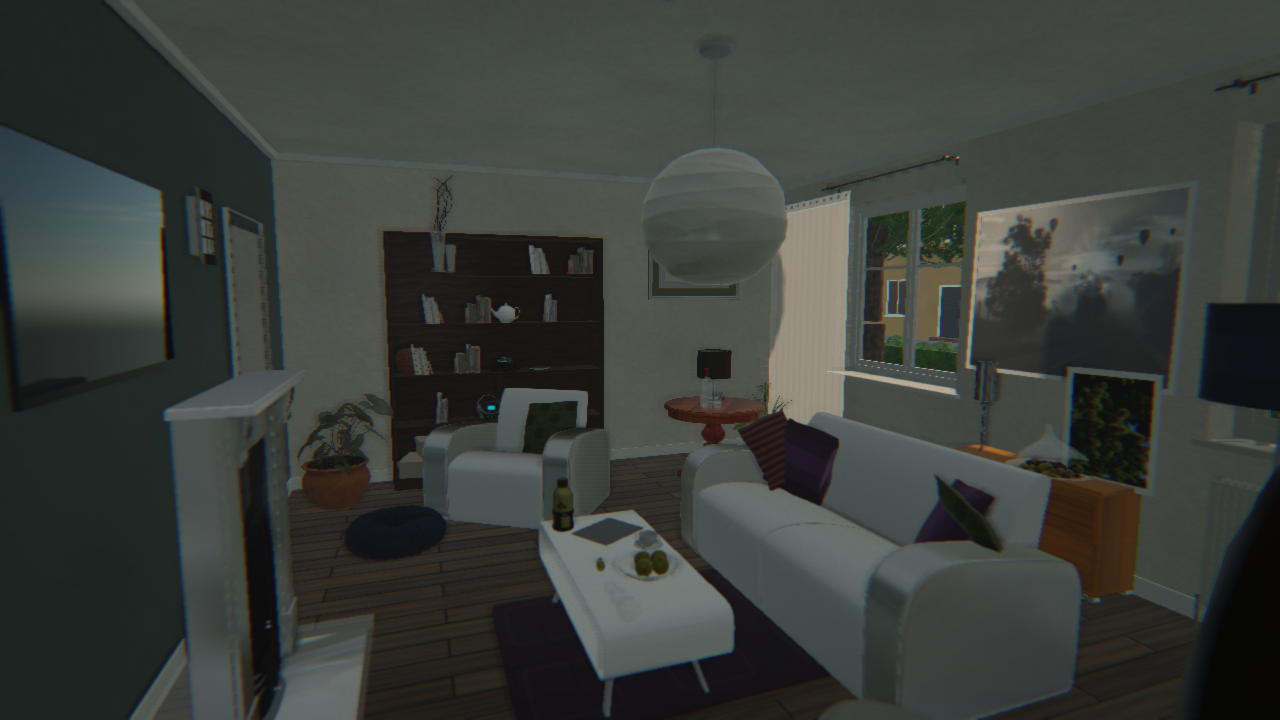
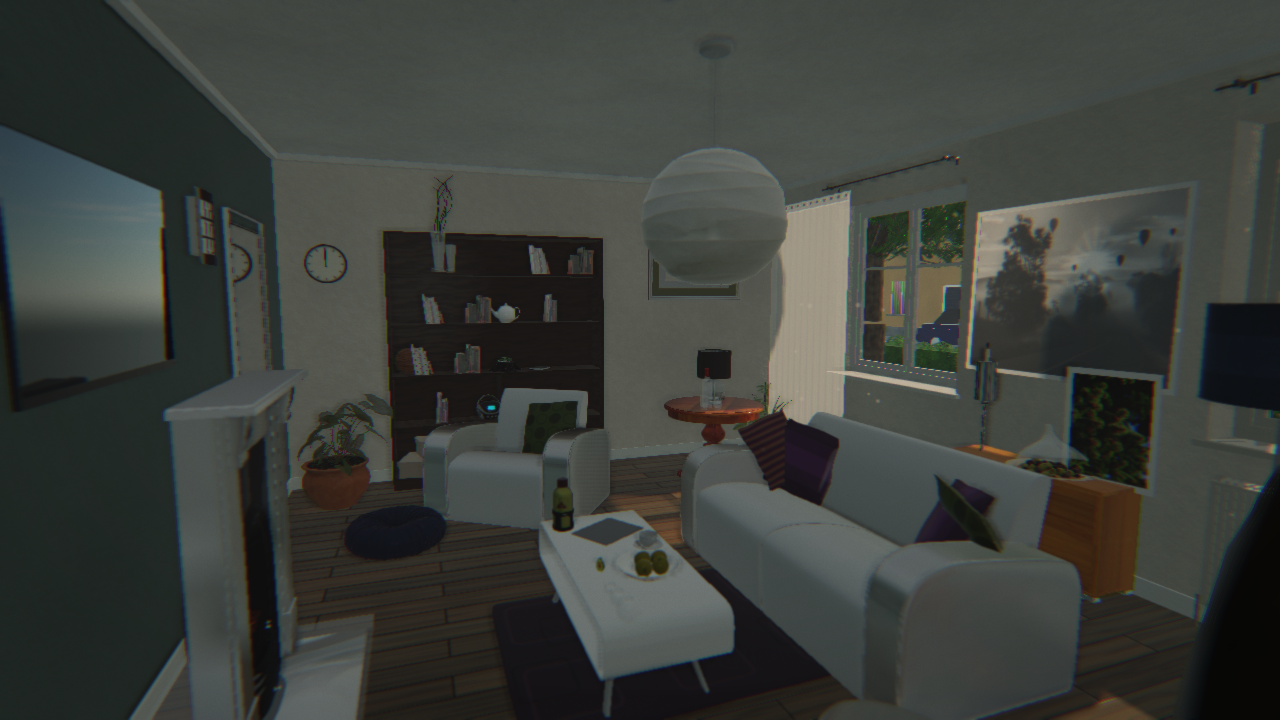
Motes only in real sunbeams; the hero image retaken

diff --git a/src/RoomApplication.cpp b/src/RoomApplication.cpp
@@ -124,7 +124,7 @@ bool RoomApplication::configure(int argc, char** argv)
                 "  --volumetric D            the pipeline's volumetric fog density (experimental, default 0)\n"
                 "  --sunbeams D[,G,N]        sunlight scattered by the room's air: density per metre (default 0.12, 0 off),\n"
                 "                            anisotropy (default 0.75) and march steps (default 24)\n"
-                "  --motes N[,PX]            dust motes drifting in the beams (default 400, 0 off) and their size in pixels at 540p (default 2.5)\n"
+                "  --motes N[,PX]            dust motes drifting in the beams (default 400, 0 off) and their size in pixels at 540p (default 2)\n"
                 "  --no-reflections          planar reflections off (mirror, television screen)\n"
                 "  --no-specular-classes     CNA's 8-bit prefiltered specular instead of the half-float roughness classes\n"
                 "  --reflection-scale S      reflection target size relative to the frame (default 0.5)\n"

diff --git a/src/Render/SceneRenderer.cpp b/src/Render/SceneRenderer.cpp
@@ -1779,6 +1779,16 @@ void SceneRenderer::drawSunbeams(const Camera& camera, const RenderSettings& set
     in.roomMax = sunbeamMax_;
     in.motes = settings.sunbeamMotes;
     in.moteSize = settings.sunbeamMoteSize;
+    // Motes show only in real sunbeams: their glint fades with the key light's
+    // strength against the ambient (a cloud-dimmed sun lights the air but not
+    // the specks, which read as snowflakes otherwise).
+    {
+        const SkyLighting& lighting = sky_.lighting();
+        const auto luminance = [](const Vector3& v) { return 0.2126f * v.X + 0.7152f * v.Y + 0.0722f * v.Z; };
+        const float ratio = luminance(keyLightColour_) / std::max(luminance(lighting.ambientColour), 1e-4f);
+        in.moteBrightness = std::clamp((ratio - 2.5f) / 5.0f, 0.0f, 1.0f);
+        if (in.moteBrightness <= 0.0f) in.motes = 0;
+    }
     in.time = frameSeconds_;
     in.viewProjection = camera.view() * camera.projection();
     const Matrix& view = camera.view();

diff --git a/include/CnaRoom/Render/Sunbeams.hpp b/include/CnaRoom/Render/Sunbeams.hpp
@@ -63,7 +63,7 @@ public:
         // Dust motes: specks drifting in the room's air, drawn where the key
         // light reaches them (the same atlas compare), camera-facing.
         int motes = 400;              ///< how many of the buffer's motes to draw (0 off)
-        float moteSize = 2.5f;        ///< a speck's diameter in pixels at a 540-line frame (a point of glare, whatever its distance)
+        float moteSize = 2.0f;        ///< a speck's diameter in pixels at a 540-line frame (a point of glare, whatever its distance)
         int viewportWidth = 0, viewportHeight = 0;   ///< filled by draw()
         float moteBrightness = 1.0f;
         float time = 0.0f;            ///< scene seconds for the drift

diff --git a/include/CnaRoom/Render/RenderSettings.hpp b/include/CnaRoom/Render/RenderSettings.hpp
@@ -41,7 +41,7 @@ struct RenderSettings
     float sunbeamAnisotropy = 0.75f; ///< Henyey-Greenstein g: forward-biased, brightest looking toward the window
     int sunbeamSteps = 24;
     int sunbeamMotes = 400;          ///< dust motes drifting in the beams (0 off)
-    float sunbeamMoteSize = 2.5f;    ///< a mote's diameter in pixels at a 540-line frame
+    float sunbeamMoteSize = 2.0f;    ///< a mote's diameter in pixels at a 540-line frame
     /// Depth of field as a thin lens on a 24 mm sensor: focal length (mm),
     /// f-number, the largest blur radius (screen fraction) and the focus
     /// distance (metres; 0 focuses on whatever is at the frame's centre).

diff --git a/plan.md b/plan.md
@@ -698,6 +698,10 @@ See `NEXT.md` for the ordered queue. Audit log (what the contact sheets showed a
 
 ## 29. Completed work
 
+- 2026-09-14 M9 motes gated on the sun: the specks' glint now fades with the key light's
+  luminance against the ambient's (none below 2.5 times the ambient, full at 7.5), so a
+  cloud-dimmed sun lights the air but not the motes, which had read as snowflakes across a
+  cloudy room; their default size is 2 px at 540 lines. The README's hero image retaken.
 - 2026-09-14 M9 snow on the props: the cars, the bench, the bin, the gutters and the bicycle's
   tyres join the weather's material list (their tops take the snow, the paints go matte when
   wet), with an exterior black rubber and a painted bench wood of their own so the snow does
